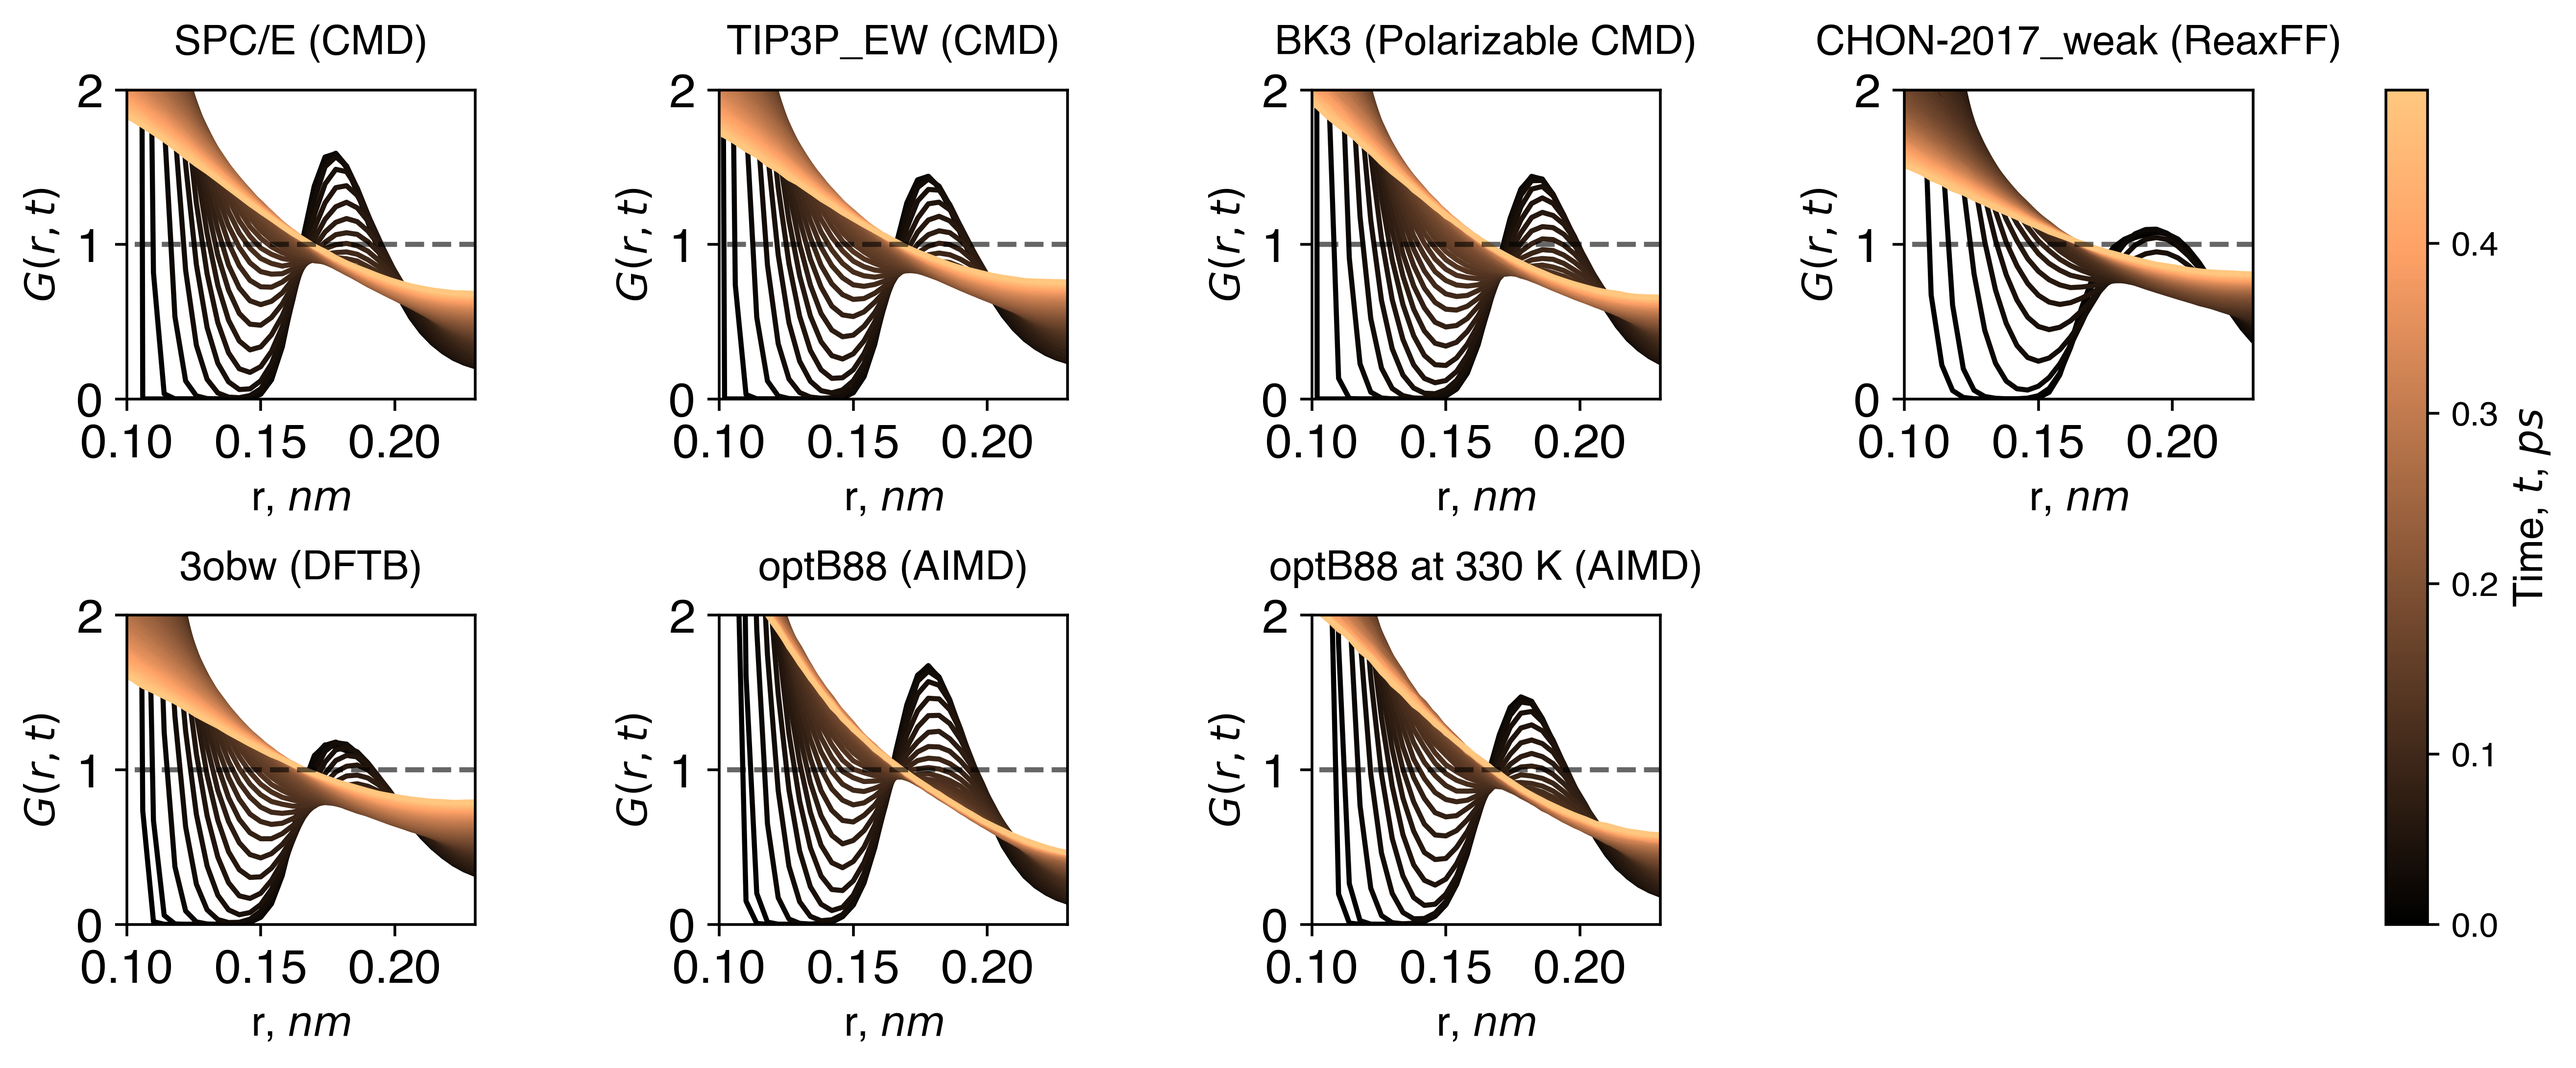
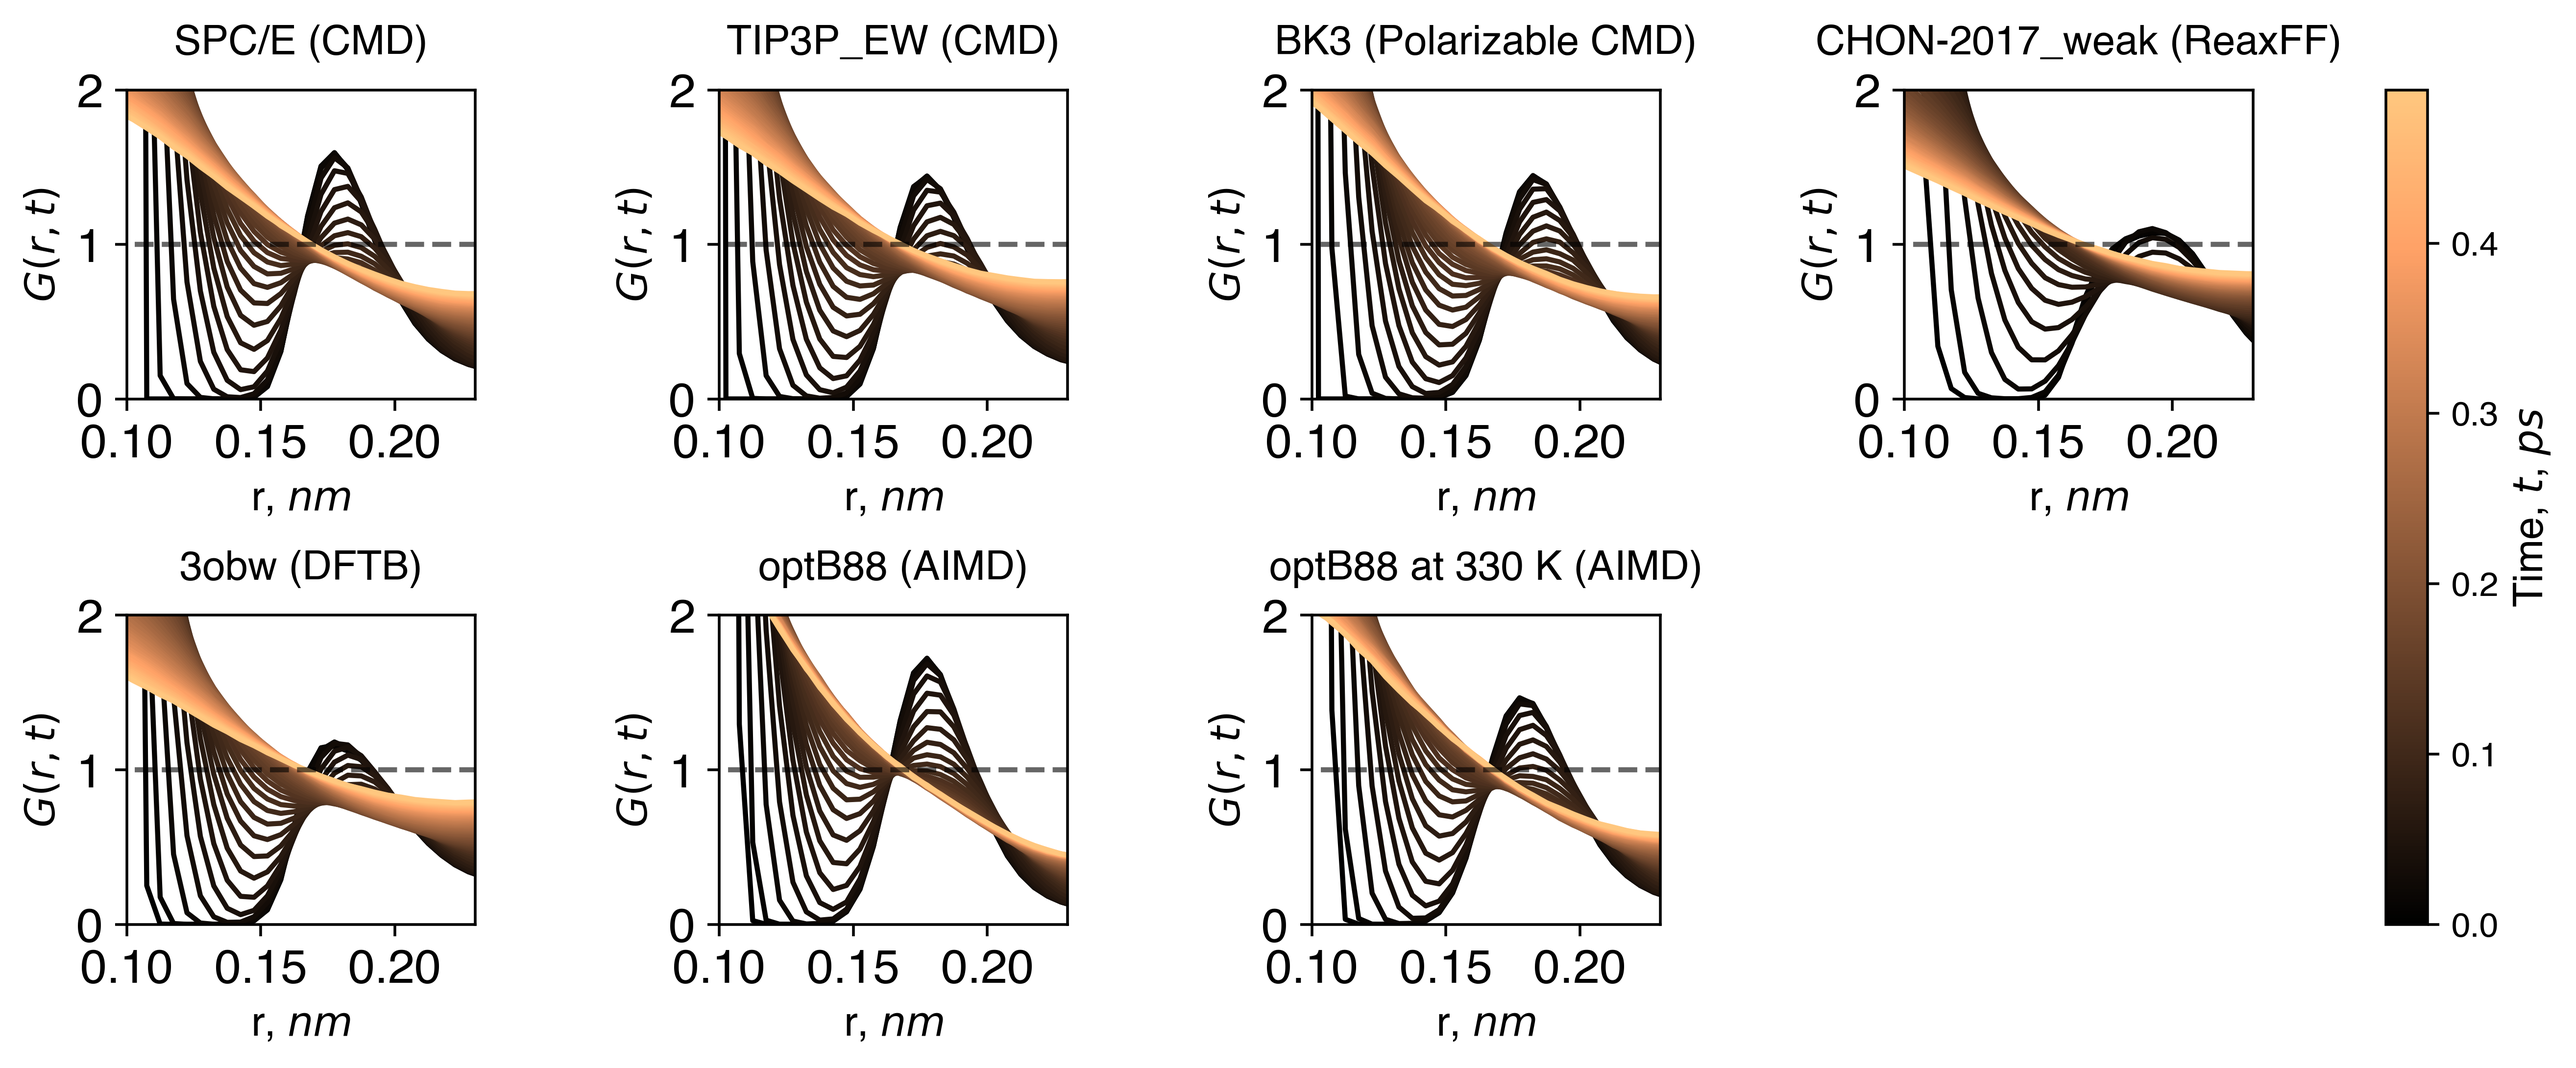
Update partial plots

diff --git a/water_vhf_analysis/analysis/plot_partials.py b/water_vhf_analysis/analysis/plot_partials.py
@@ -19,65 +19,65 @@ pairs = ["O_H", "O_O", "H_H"]
 def get_data(pair):
     """Get data based on pair"""
     aimd = {
-        "r": np.loadtxt(get_txt_file("aimd/nvt_partial_data", f"r_random_{pair}.txt")),
-        "t": np.loadtxt(get_txt_file("aimd/nvt_partial_data", f"t_random_{pair}.txt")),
+        "r": np.loadtxt(get_txt_file("aimd/partial_overlap_nvt", f"r_final_{pair}.txt")),
+        "t": np.loadtxt(get_txt_file("aimd/partial_overlap_nvt", f"t_final_{pair}.txt")),
         "g": np.loadtxt(
-            get_txt_file("aimd/nvt_partial_data", f"vhf_random_{pair}.txt")
+            get_txt_file("aimd/partial_overlap_nvt", f"vhf_final_{pair}.txt")
         ),
         "name": "optB88 (AIMD)",
     }
 
     spce = {
-        "r": np.loadtxt(get_txt_file("spce/nvt_partial_data", f"r_random_{pair}.txt")),
-        "t": np.loadtxt(get_txt_file("spce/nvt_partial_data", f"t_random_{pair}.txt")),
+        "r": np.loadtxt(get_txt_file("spce/partial_overlap_nvt", f"r_final_{pair}.txt")),
+        "t": np.loadtxt(get_txt_file("spce/partial_overlap_nvt", f"t_final_{pair}.txt")),
         "g": np.loadtxt(
-            get_txt_file("spce/nvt_partial_data", f"vhf_random_{pair}.txt")
+            get_txt_file("spce/partial_overlap_nvt", f"vhf_final_{pair}.txt")
         ),
         "name": "SPC/E (CMD)",
     }
 
     tip3p_ew = {
         "r": np.loadtxt(
-            get_txt_file("tip3p_ew/nvt_partial_data", f"r_random_{pair}.txt")
+            get_txt_file("tip3p_ew/partial_overlap_nvt", f"r_final_{pair}.txt")
         ),
         "t": np.loadtxt(
-            get_txt_file("tip3p_ew/nvt_partial_data", f"t_random_{pair}.txt")
+            get_txt_file("tip3p_ew/partial_overlap_nvt", f"t_final_{pair}.txt")
         ),
         "g": np.loadtxt(
-            get_txt_file("tip3p_ew/nvt_partial_data", f"vhf_random_{pair}.txt")
+            get_txt_file("tip3p_ew/partial_overlap_nvt", f"vhf_final_{pair}.txt")
         ),
         "name": "TIP3P_EW (CMD)",
     }
 
     bk3 = {
-        "r": np.loadtxt(get_txt_file("bk3/nvt_partial_data", f"r_random_{pair}.txt")),
-        "t": np.loadtxt(get_txt_file("bk3/nvt_partial_data", f"t_random_{pair}.txt")),
-        "g": np.loadtxt(get_txt_file("bk3/nvt_partial_data", f"vhf_random_{pair}.txt")),
+        "r": np.loadtxt(get_txt_file("bk3/partial_overlap_nvt", f"r_final_{pair}.txt")),
+        "t": np.loadtxt(get_txt_file("bk3/partial_overlap_nvt", f"t_final_{pair}.txt")),
+        "g": np.loadtxt(get_txt_file("bk3/partial_overlap_nvt", f"vhf_final_{pair}.txt")),
         "name": "BK3 (Polarizable CMD)",
     }
 
     reaxff = {
         "r": np.loadtxt(
-            get_txt_file("reaxff/nvt_partial_data", f"r_random_{pair}.txt")
+            get_txt_file("reaxff/partial_overlap_nvt", f"r_final_{pair}.txt")
         ),
         "t": np.loadtxt(
-            get_txt_file("reaxff/nvt_partial_data", f"t_random_{pair}.txt")
+            get_txt_file("reaxff/partial_overlap_nvt", f"t_final_{pair}.txt")
         ),
         "g": np.loadtxt(
-            get_txt_file("reaxff/nvt_partial_data", f"vhf_random_{pair}.txt")
+            get_txt_file("reaxff/partial_overlap_nvt", f"vhf_final_{pair}.txt")
         ),
         "name": "CHON-2017_weak (ReaxFF)",
     }
 
     aimd_330 = {
         "r": np.loadtxt(
-            get_txt_file("aimd/330k/nvt_partial_data", f"r_random_{pair}.txt")
+            get_txt_file("aimd/330k/partial_overlap_nvt", f"r_final_{pair}.txt")
         ),
         "t": np.loadtxt(
-            get_txt_file("aimd/330k/nvt_partial_data", f"t_random_{pair}.txt")
+            get_txt_file("aimd/330k/partial_overlap_nvt", f"t_final_{pair}.txt")
         ),
         "g": np.loadtxt(
-            get_txt_file("aimd/330k/nvt_partial_data", f"vhf_random_{pair}.txt")
+            get_txt_file("aimd/330k/partial_overlap_nvt", f"vhf_final_{pair}.txt")
         ),
         "name": "optB88 at 330 K (AIMD)",
     }
@@ -97,10 +97,10 @@ def get_data(pair):
     }
 
     dftb = {
-        "r": np.loadtxt(get_txt_file("dftb/nvt_partial_data", f"r_random_{pair}.txt")),
-        "t": np.loadtxt(get_txt_file("dftb/nvt_partial_data", f"t_random_{pair}.txt")),
+        "r": np.loadtxt(get_txt_file("dftb/partial_overlap_nvt", f"r_final_{pair}.txt")),
+        "t": np.loadtxt(get_txt_file("dftb/partial_overlap_nvt", f"t_final_{pair}.txt")),
         "g": np.loadtxt(
-            get_txt_file("dftb/nvt_partial_data", f"vhf_random_{pair}.txt")
+            get_txt_file("dftb/partial_overlap_nvt", f"vhf_final_{pair}.txt")
         ),
         "name": "3obw (DFTB)",
     }
